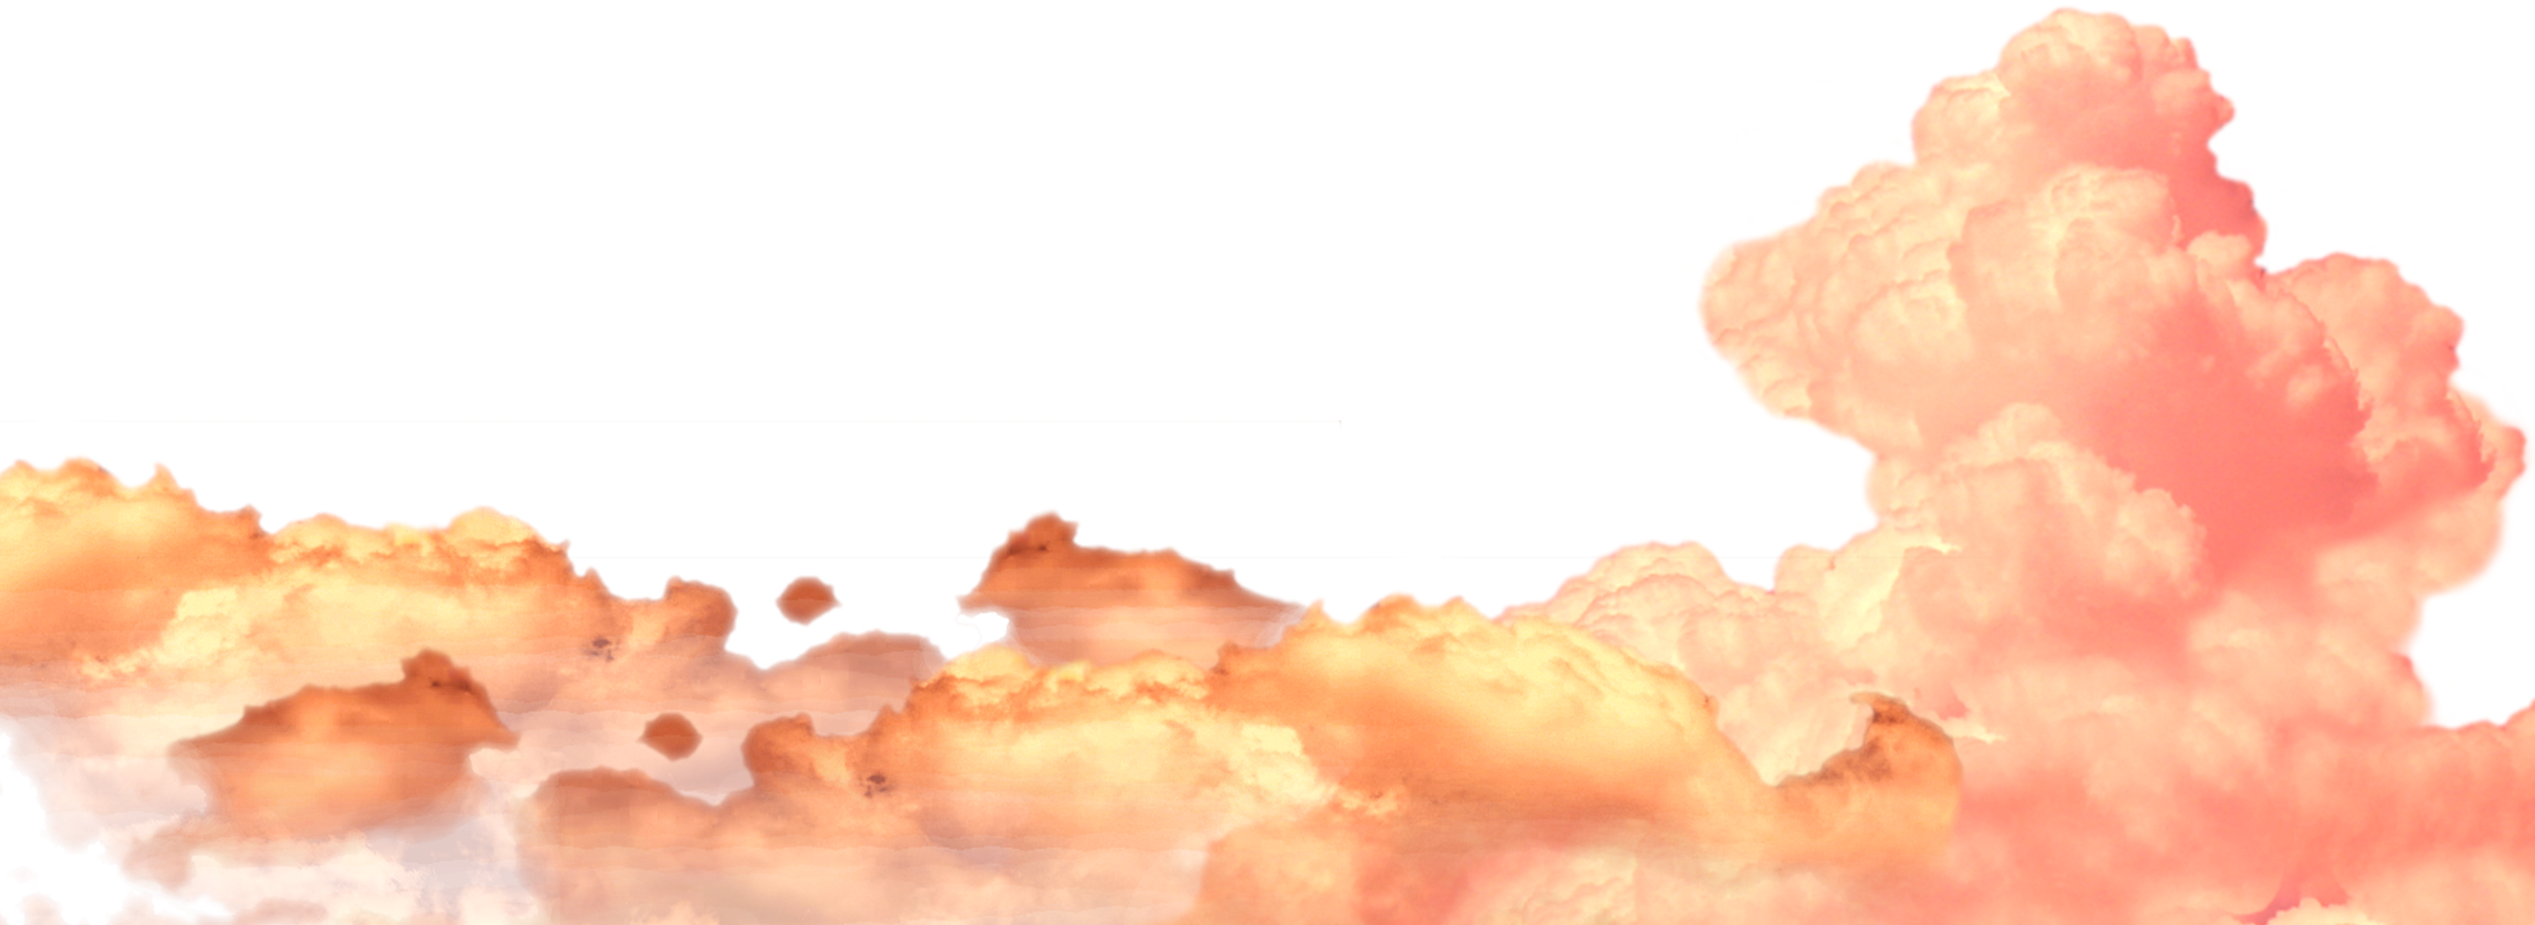
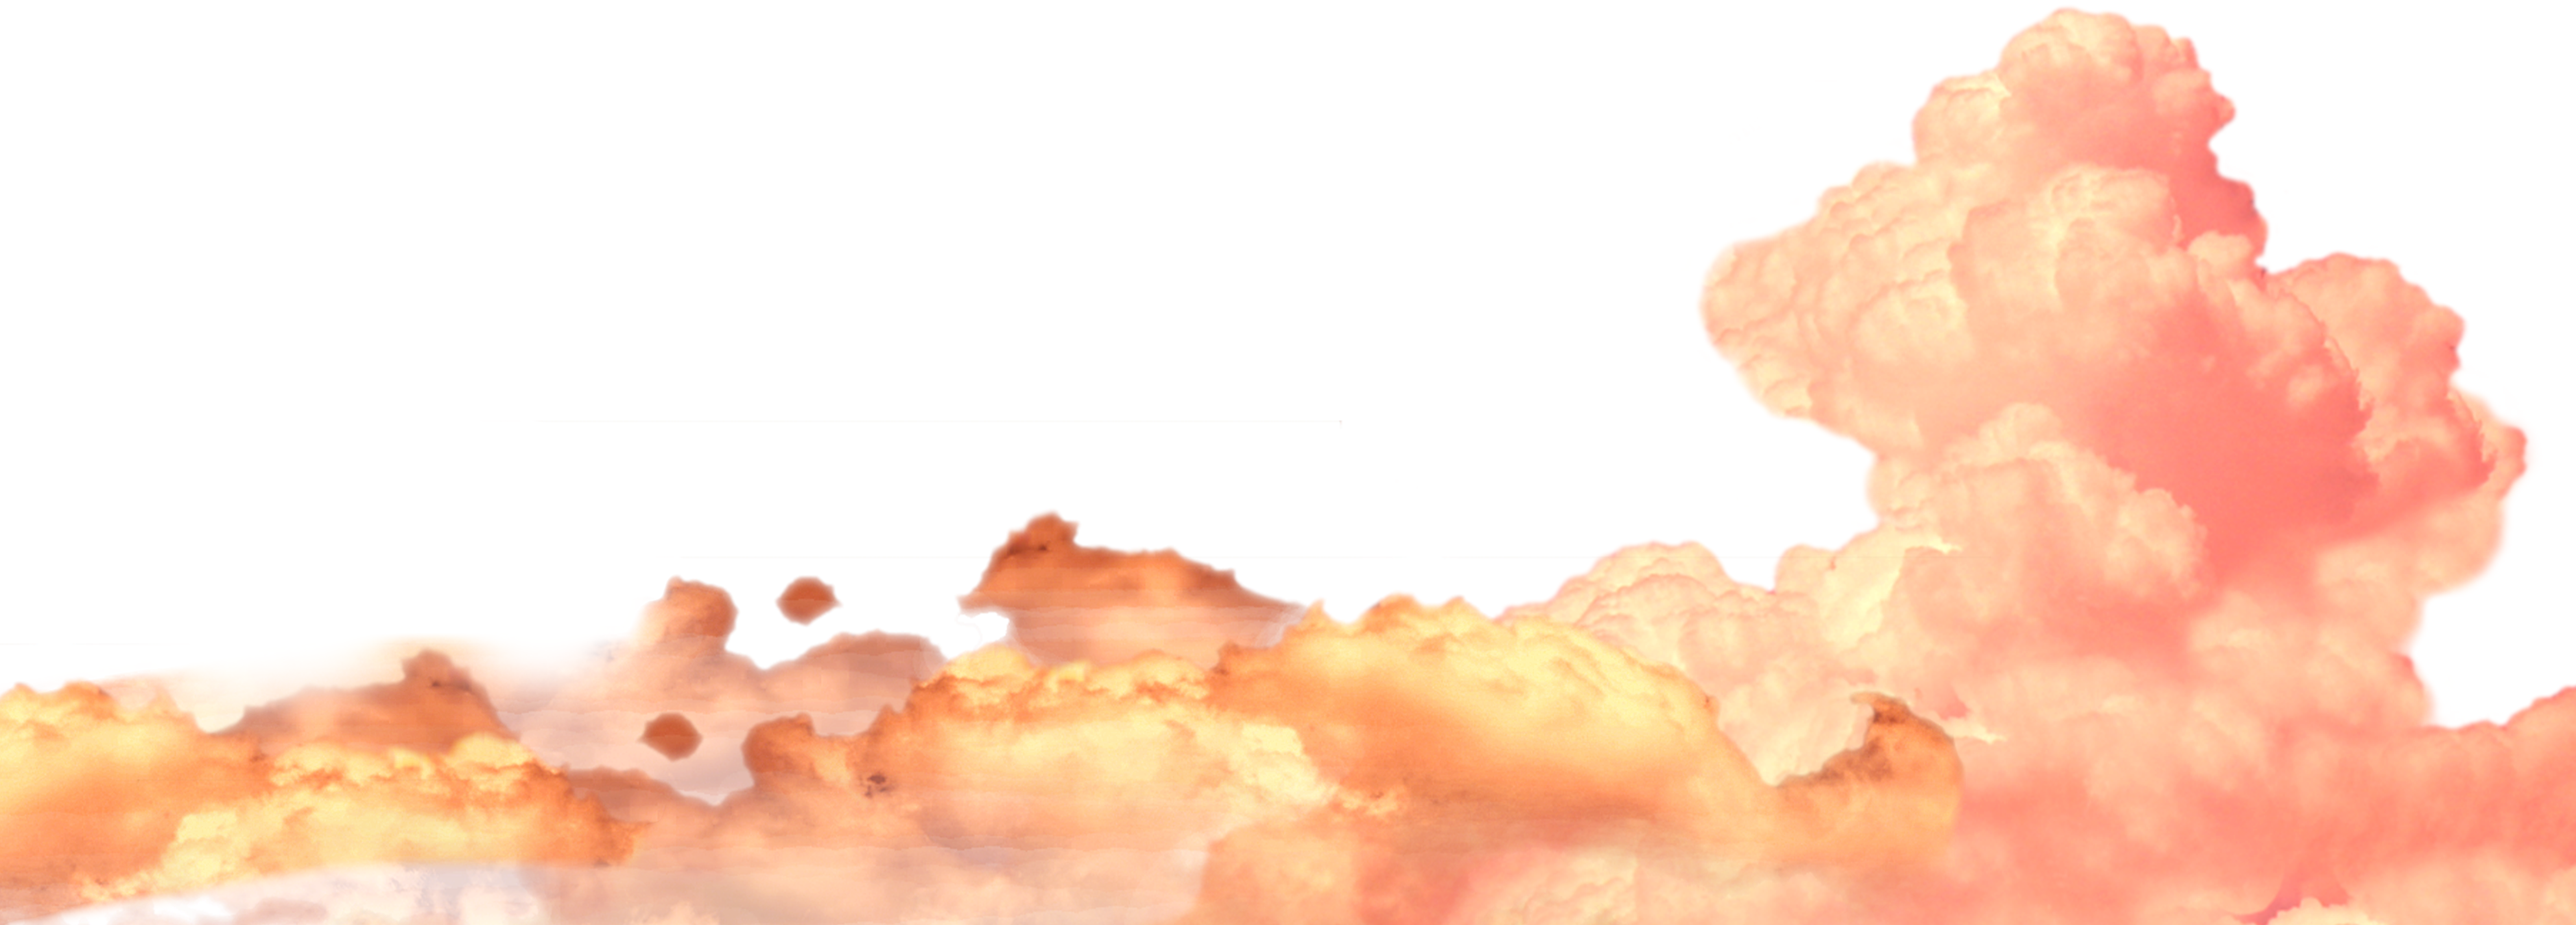
add

diff --git a/md.html b/md.html
@@ -214,7 +214,7 @@ width: 20vw;
 height: 20vw;
 position: fixed;
 left: 40vw;
-top: 10vw;
+top: 0vw;
 background: radial-gradient(rgb(255, 193, 69) 8.4%, rgb(255, 114, 0) 49.16%, rgba(255, 108, 0, 0) 52.94%);
 z-index: 10000000000000000000000;
 border-radius: 50%;
@@ -275,12 +275,15 @@ transition:0.2s;
   .black .black_bg{
     opacity: 1
   }
+  .bg{
+    background-image: url('img/1-1.png');
+  }
   .bg2{
     position: fixed;
     left: 0;
     width: 100vw;
     height: auto;
-    top: 0;
+    top: -15vh;
     z-index: 1000000
 
   }
@@ -293,6 +296,7 @@ transition:0.2s;
   <!-- <div class="hide color_bg"></div> -->
   <!-- <div class="hide bg"></div> -->
   <img src="img/1-2.png" class="bg2">
+  <div class="bg"></div>
   <video autoplay="true" class="hide" id="videoElement">
   </video>
 </body>

diff --git a/mc.html b/mc.html
@@ -196,7 +196,7 @@ background-image: url(img/default.png);
 background-size: 100vw;
 background-position: top;
 left: 0;
-top: -8vw;
+top: 7vw;
 z-index: 100;
   }
   .bg_orange{
@@ -247,7 +247,7 @@ opacity: 0}
     position: absolute;
     position: absolute;
     height: 100vh;
-    top: 10vh
+    top: 35vh
   }
   .img{
     visibility: hidden;

diff --git a/me.html b/me.html
@@ -196,6 +196,7 @@ if (navigator.mediaDevices.getUserMedia) {
       transform-origin: top;
 z-index: 1000000000;
 top: 0px;
+margin-left: -20vw
     }
 
 .bubble{
